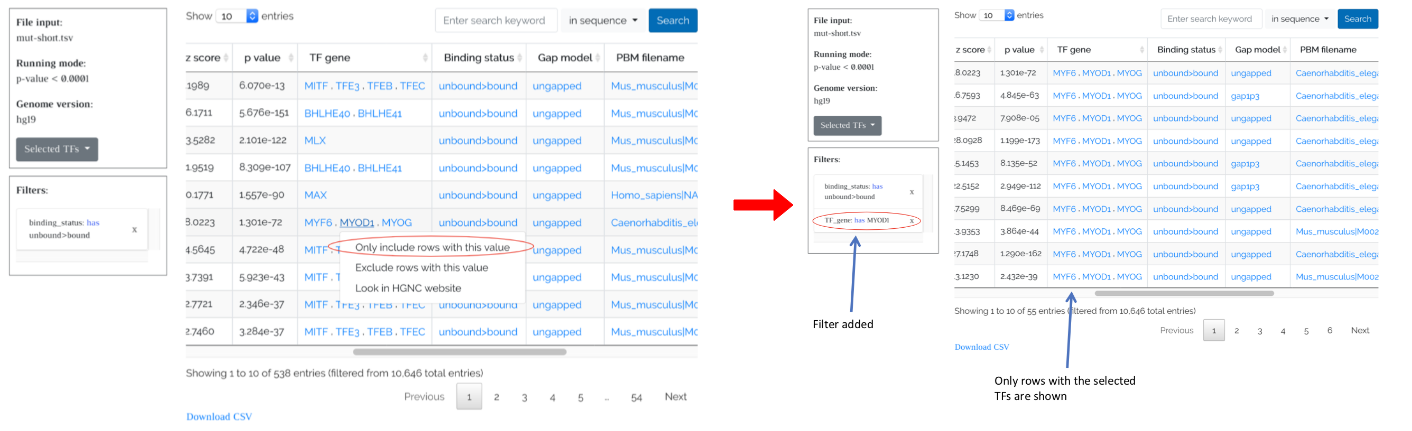
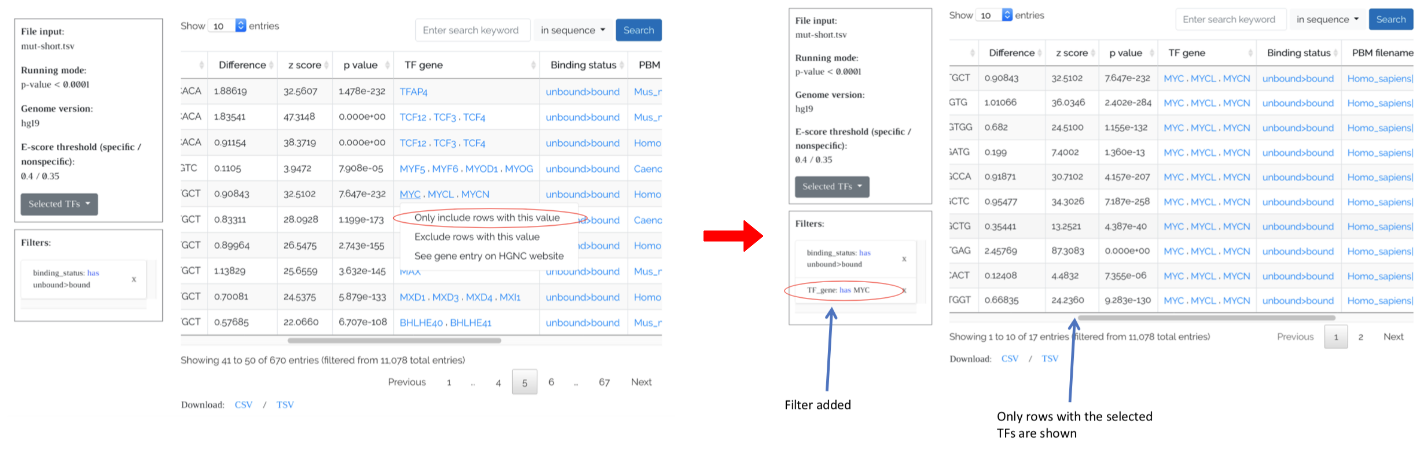
remove binding status reference for now from the interface

diff --git a/website/app/templates/about.html b/website/app/templates/about.html
@@ -275,7 +275,7 @@
   <span class="screenshoot-img"><img class="img-fluid" src="/static/images/about_page/output1.png" /></span>
 
   <p>
-    In addition to reporting the TF(s) affected by each variant, QBiC provides information about the status of each allele, which can be “bound”, “unbound”, or “ambiguous”. This status is derived from the same PBM data sets used to train the OLS binding models. But, unlike the OLS model, defining the status of an allele is based on 8-mer enrichment scores (E-scores) commonly derived from PBM data (see, <a href="https://www.ncbi.nlm.nih.gov/pubmed/16998473">Berger et al. Nature Biotech, 2006</a>; <a href="https://www.cell.com/cell-systems/fulltext/S2405-4712(18)30062-0">Shen et al. Cell Systems 2018</a>). As in our previous work, we define an allele as specifically “bound” if it is contained in two overlapping 8-mers with E-score &gt; 0.4. Conversely, we define an allele as “unbound” if all 8-mers overlapping the allele have E-score &lt; 0.35. All other cases are considered “ambiguous”.
+    In addition to reporting the TF(s) affected by each variant, QBiC provides information about the status of each allele, which can be “bound”, “unbound”, or “ambiguous”. This status is derived from the same PBM data sets used to train the OLS binding models. But, unlike the OLS model, defining the status of an allele is based on 8-mer enrichment scores (E-scores) commonly derived from PBM data (see, <a href="https://www.ncbi.nlm.nih.gov/pubmed/16998473">Berger et al. Nature Biotech, 2006</a>; <a href="https://www.cell.com/cell-systems/fulltext/S2405-4712(18)30062-0">Shen et al. Cell Systems 2018</a>). As in our previous work, we define an allele as specifically “bound” if it is contained in two overlapping 8-mers with E-score &gt; 0.4. Conversely, we define an allele as “unbound” if all 8-mers overlapping the allele have E-score &lt; 0.35. All other cases are considered “ambiguous”. These values however, can be adjusted by using "Advanced Option" dropdown  when making predictions.
   </p>
 
   <p>
@@ -291,7 +291,8 @@
   <span class="combined-img"><img class="img-fluid" src="/static/images/about_page/output3.png" /></span>
 
   <p>
-    For PBM data sets (column  <span class="gray-inline-text">PBM filename</span>), the QBiC output table also provides an option to directly download the data and the model used to make the predictions. The output table also specifies which type of model, i.e. using gapped or ungapped k-mers is used (column  <span class="gray-inline-text">Gap model</span>).
+    For PBM data sets (column  <span class="gray-inline-text">PBM filename</span>), the QBiC output table also provides an option to directly download the data and the model used to make the predictions.
+    <!--The output table also specifies which type of model, i.e. using gapped or ungapped k-mers is used (column  <span class="gray-inline-text">Gap model</span>).-->
   </p>
 
   <p>
